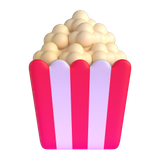
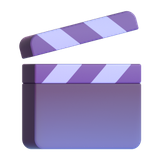
영상 아이콘을 클래퍼보드로 바꾸고, 날짜를 연·월만 넣을 수 있게 변경 (#4)
Claude-Session: https://claude.ai/code/session_01HjCKJ9S4QaPHX5dWqtTwpq

diff --git a/index.html b/index.html
@@ -252,7 +252,10 @@ body.modal .tabbar{opacity:0;pointer-events:none;transition:opacity .2s}
 .review::placeholder{color:var(--text-3)}
 .review:focus,.tin:focus,.field input:focus,.field textarea:focus{box-shadow:inset 0 0 0 1.5px color-mix(in srgb,var(--accent) 60%,transparent)}
 .tin{flex:1;background:var(--field);border:none;border-radius:10px;padding:8px 11px;font-size:14px;outline:none;min-width:0}
-input[type=date].tin{flex:none;min-height:36px}
+.dpick{display:inline-flex;gap:6px;flex-wrap:wrap}
+.dpick .sel{padding-top:7px;padding-bottom:7px}
+.dpick .sel:disabled{opacity:.45}
+.drow{flex-wrap:wrap}
 .marks{display:flex;gap:6px;flex-wrap:wrap}
 .mark{font-size:12.5px;padding:3.5px 10px;border-radius:99px;background:var(--chip);font-weight:540;color:var(--text-2)}
 .mark:hover{background:var(--chip-h);color:var(--text)}
@@ -342,7 +345,7 @@ input[type=date].tin{flex:none;min-height:36px}
   .dcard{flex-basis:270px}
   .wlist{grid-template-columns:1fr}
   /* iOS는 16px보다 작은 입력칸에 초점이 가면 화면을 확대한다 */
-  .tin,.review,.numin,.field input:not([type=range]),.field textarea,.searchbox input{font-size:16px}
+  .tin,.review,.numin,.field input:not([type=range]),.field textarea,.searchbox input,.dpick .sel{font-size:16px}
 }
 @media (max-width:520px){
   .brand span{display:none}
@@ -858,7 +861,7 @@ function undo() {
      items: [{ id, kind: book|movie|drama|game, status: wish|doing|done,
                title, creator, year(작품 연도), cover,
                rating(0.5–10, 0.5 단위|null), review,
-               started(YYYY-MM-DD, 시작한 날), date(YYYY-MM-DD, 다 읽은/본/끝낸 날),
+               started(시작한 날), date(다 읽은/본/끝낸 날) — 둘 다 YYYY-MM-DD, 모르면 YYYY-MM 또는 YYYY,
                where: [볼 수 있는 곳·플랫폼…], memo, added(ms) }] }
    스키마를 바꾸면 VERSION을 올리고 migrate()에 단계를 하나 추가한다.
    모르는 필드는 지우지 않고 그대로 둔다 (새 버전 페이지가 넣은 값을 지키려고). */
@@ -1328,6 +1331,41 @@ function closeSheet() {
   render();
 }
 
+/* 날짜 고르기: 연·월·일을 따로 고른다. 월·일은 "모름"으로 둘 수 있다 ("2014", "2014-03", "2014-03-21"). */
+const daysIn = (y, m) => new Date(+y, +m, 0).getDate();
+function dateFieldHTML(id, val) {
+  let [y, m, d] = String(val || "").split("-");
+  const cy = new Date().getFullYear();
+  const years = [];
+  for (let v = cy + 1; v >= 1950; v--) years.push(String(v));
+  if (y && !years.includes(y)) years.push(y);
+  const dim = y && m ? daysIn(y, m) : 31;
+  const opt = (v, label, cur) => `<option value="${v}"${v === cur ? " selected" : ""}>${label}</option>`;
+  return `<span class="dpick" id="${id}">
+    <select class="sel" data-p="y" aria-label="연도">${opt("", "연도", y || "")}${years.map(v => opt(v, v + "년", y)).join("")}</select>
+    <select class="sel" data-p="m" aria-label="월"${y ? "" : " disabled"}>${opt("", "월 모름", m || "")}${[...Array(12)].map((_, i) => opt(pad(i + 1), (i + 1) + "월", m)).join("")}</select>
+    <select class="sel" data-p="d" aria-label="일"${m ? "" : " disabled"}>${opt("", "일 모름", d || "")}${[...Array(dim)].map((_, i) => opt(pad(i + 1), (i + 1) + "일", d)).join("")}</select>
+  </span>`;
+}
+function bindDateField(id, get, set) {
+  const host = $("#" + id);
+  if (!host) return;
+  $$("select", host).forEach(sel => sel.onchange = () => {
+    const [y, m, d0] = $$("select", host).map(x => x.value);
+    let v = "";
+    if (y) {
+      v = y;
+      if (m) {
+        v += "-" + m;
+        if (d0) v += "-" + pad(Math.min(+d0, daysIn(y, m)));
+      }
+    }
+    set(v);
+    host.outerHTML = dateFieldHTML(id, get());
+    bindDateField(id, get, set);
+  });
+}
+
 /* 감상 칸은 쓰는 만큼 늘어난다 */
 function autoGrow(ta) {
   const fit = () => { ta.style.height = "auto"; ta.style.height = ta.scrollHeight + 2 + "px"; };
@@ -1414,11 +1452,10 @@ function renderSheet() {
     <div class="sec">
       <h3>날짜</h3>
       <div class="drow"><span>시작한 날</span>
-        <span class="inrow"><input type="date" class="tin" id="startIn" value="${fullDate(x.started) ? x.started : ""}" aria-label="시작한 날"></span></div>
+        <span class="inrow">${dateFieldHTML("startIn", x.started)}</span></div>
       ${st === "done" ? `<div class="drow"><span>${k.endDate}</span>
-        <span class="inrow"><input type="date" class="tin" id="dateIn" value="${fullDate(x.date) ? x.date : ""}" aria-label="${k.endDate}">
-        <button class="btn ghost sm" id="dateToday">오늘</button></span></div>
-        ${x.date && !fullDate(x.date) ? `<p class="hint" style="margin:6px 0 0">지금 값: ${esc(fmtDate(x.date))}</p>` : ""}` : ""}
+        <span class="inrow">${dateFieldHTML("dateIn", x.date)}
+        <button class="btn ghost sm" id="dateToday">오늘</button></span></div>` : ""}
     </div>` : ""}
 
     <div class="sec" id="whereSec">
@@ -1468,9 +1505,9 @@ function renderSheet() {
     bindScore(bigv, () => x.rating, (v) => apply(v, "big"));
     $("#clearRate").onclick = () => apply(null);
     $("#rev").addEventListener("input", (e) => { x.review = e.target.value; save(); });
-    $("#startIn").addEventListener("change", (e) => { x.started = e.target.value; save(); });
+    bindDateField("startIn", () => x.started, (v) => { x.started = v; save(); });
     if ($("#dateIn")) {
-      $("#dateIn").addEventListener("change", (e) => { x.date = e.target.value; save(); });
+      bindDateField("dateIn", () => x.date, (v) => { x.date = v; save(); });
       $("#dateToday").onclick = () => { x.date = today(); save(); renderSheet(); };
     }
   }
@@ -1575,8 +1612,8 @@ function renderForm() {
       <label class="field"><span>작품 연도</span><input data-f="year" value="${esc(f.year)}" inputmode="numeric" placeholder="예: 2024" autocomplete="off"></label>
     </div>
     ${st === "done" ? `
-      <div class="two stack">
-        <label class="field"><span>${k.endDate}</span><input type="date" data-f="date" value="${fullDate(f.date) ? esc(f.date) : ""}"></label>
+      <div>
+        <div class="field"><span>${k.endDate}</span>${dateFieldHTML("fDate", f.date)}</div>
         <div class="field"><span>점수</span>
           <div class="raterow sm">
             <div class="rangewrap"><input type="range" id="fRng" min="0.5" max="10" step="0.5" value="${f.rating ?? 0.5}" aria-label="점수 슬라이더"></div>
@@ -1586,7 +1623,7 @@ function renderForm() {
       </div>
       <label class="field"><span>감상</span><textarea class="review" data-f="review" rows="4" placeholder="어땠는지 자유롭게 적어 두세요. 한 줄이어도, 아주 길어도 괜찮아요.">${esc(f.review)}</textarea></label>`
     : st === "doing" ? `
-      <label class="field"><span>시작한 날</span><input type="date" data-f="started" value="${fullDate(f.started) ? esc(f.started) : ""}"></label>` : ""}
+      <div class="field"><span>시작한 날</span>${dateFieldHTML("fStarted", f.started)}</div>` : ""}
     <div class="field" id="fWhere"><span>${whereLabel(f.kind, st)}</span>${whereEditorHTML(f.where, f.kind)}</div>
     ${st === "wish" ? `<label class="field"><span>메모</span><textarea class="review" data-f="memo" rows="2" placeholder="누가 추천했는지, 언제까지 볼 수 있는지…">${esc(f.memo)}</textarea></label>` : ""}
     <div class="field"><span>표지 이미지 주소</span>
@@ -1616,6 +1653,8 @@ function renderForm() {
     openForm(x ? { editing: x, fresh: true } : { kind: f.kind, status: f.status, fresh: true });
   };
   if (st === "done") bindRangePair($("#fRng"), $("#fNum"), () => f.rating, (v) => { f.rating = v; saveDraft(); });
+  bindDateField("fDate", () => f.date, (v) => { f.date = v; saveDraft(); });
+  bindDateField("fStarted", () => f.started, (v) => { f.started = v; saveDraft(); });
   bindWhereEditor($("#fWhere"), () => f.where, (list) => { f.where = list; renderForm(); });
   bindSuggest();
   if ($("#fKeys")) $("#fKeys").onclick = () => openSearchConfig(true);

diff --git a/AGENTS.md b/AGENTS.md
@@ -15,6 +15,7 @@
 
 - 감상은 한 줄일 수도, 아주 길 수도 있다. "짧은 감상"이라고 부르지 않고, 칸은 쓰는 만큼 늘어난다.
 - 점수는 0.5점 단위, 0.5–10.
+- 날짜(시작한 날·끝낸 날)는 연·월·일을 따로 고르고, 월·일은 "모름"으로 둘 수 있다. 저장은 `YYYY` / `YYYY-MM` / `YYYY-MM-DD`.
 - 쓰는 중인 내용은 잃지 않는다: 추가·수정 폼은 입력마다 임시 저장(`media_drafts`)하고, 내용이 있으면 바깥을 눌러도 닫히지 않는다(×·Esc로만 닫힘). 투자 페이지와 같은 장치.
 - 추가 폼의 제목 칸은 자동 완성: 도서는 카카오 책 검색(키 없으면 Google Books 시도), 영화·드라마는 TMDB, 게임은 없음.
   검색 키는 GitHub 토큰처럼 브라우저 localStorage(`media_search_keys`)에만 둔다. data.json·내보내기에 넣지 않는다.
